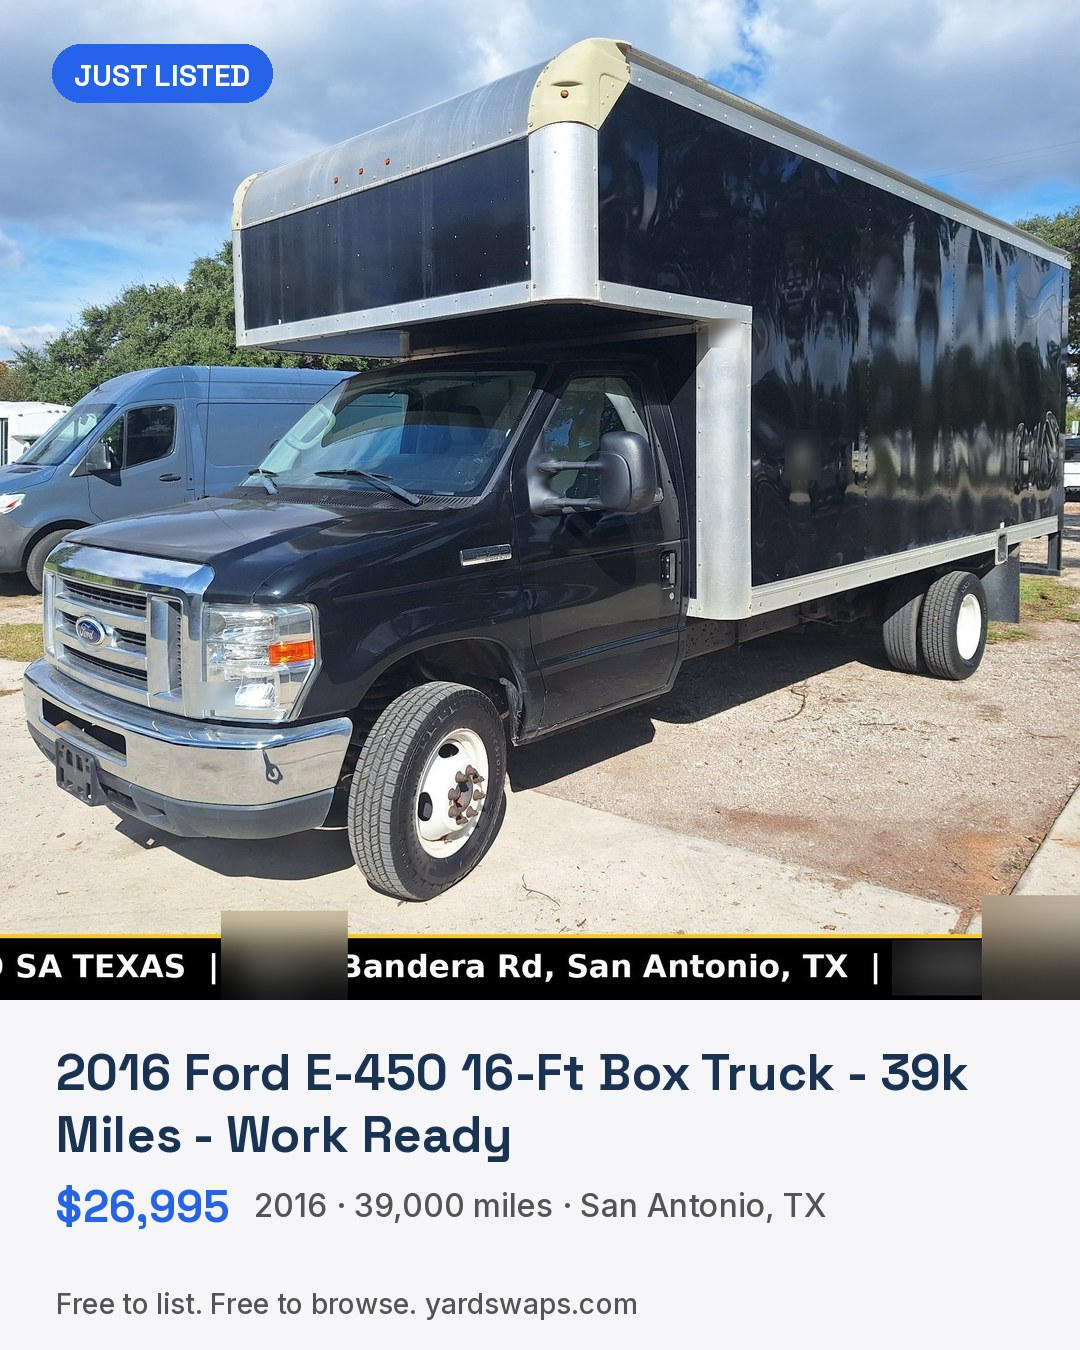
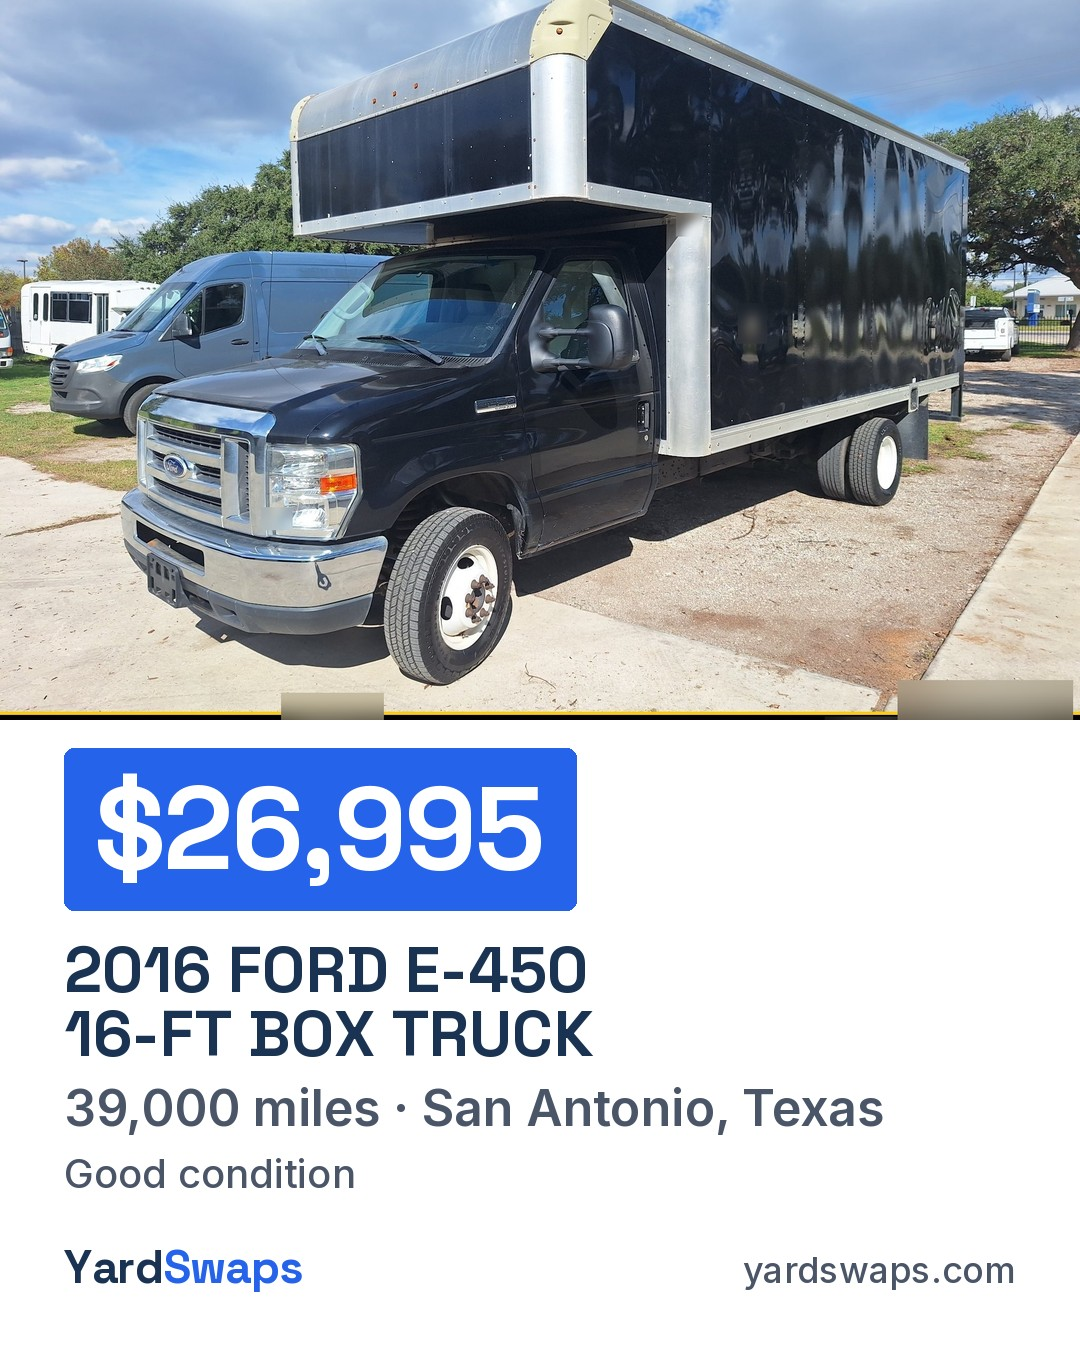
Listing Reels and cards: blur only phone numbers and plates
Uses listings/photo_privacy.py (same file as PR #139) at the three call sites in
the listing builder, so blur boxes stop landing on the machine itself.

Claude-Session: https://claude.ai/code/session_01LSYGzeUgq9fnmqx8BJzKeC

diff --git a/listings/photo_privacy.py b/listings/photo_privacy.py
@@ -1,0 +1,100 @@
+"""Blur only the text in a listing photo that can identify someone: phone numbers and licence plates.
+
+Nov 26 2026: the old rule (just_listed.blur_digit_text) blurred every OCR word with a digit in it. On real
+equipment photos tesseract reads trees, grilles, bumpers and mast chains as "4", "16" or "M4", so the Reels showed
+blur boxes on the machine itself (2005 Peterbilt 379: three; a Toyota forklift: six), which reads as tampering.
+A blur here is now kept for:
+  - a phone number: a text line in a phone shape (915-555-1234, (915) 555-1234, 9155551234, 555-1234);
+  - a plate, read with confidence 70+: one capital word of 6 to 8 letters and digits with 2+ of each
+    (ABC1234), or two neighbouring words of 2-3 capital letters and 3-4 digits (ABC 1234).
+Serial numbers, model numbers, hours and prices are not private and stay sharp. Faces are still handled by
+just_listed.faces_in (the whole photo is skipped).
+
+blur_private_text() keeps blur_digit_text()'s return shape: (image, boxes_blurred, ocr_ok).
+"""
+import re
+import shutil
+
+# 915-555-1234, (915) 555-1234, 915.555.1234, 9155551234, 555-1234: separators between the groups, so a
+# model number next to an hour reading ("137562 4500 hrs") is not taken for a phone number.
+PHONE_SHAPE = re.compile(r"\(\d{3}\)\s*\d{3}[\s.\-]+\d{4}|\b\d{3}[.\-]\d{3}[.\-]\d{4}\b|\b\d{3}\s\d{3}\s\d{4}\b"
+                         r"|\b\d{10}\b|\b\d{3}[.\-]\d{4}\b")
+PLATE_CONF = 70
+WORD_CONF = 60
+
+
+def _plate_like(word, conf):
+    """One upper-case word of 6 to 8 letters and digits with at least 2 of each (ABC1234, 7ABC123)."""
+    w = re.sub(r"[^A-Za-z0-9]", "", word)
+    digits = sum(c.isdigit() for c in w)
+    letters = sum(c.isalpha() for c in w)
+    return conf >= PLATE_CONF and 6 <= len(w) <= 8 and digits >= 2 and letters >= 2 and w == w.upper()
+
+
+def _plate_pair(w1, w2, conf):
+    """Two neighbouring words read as one plate: 2-3 capital letters and 3-4 digits (ABC 1234, 123 ABC).
+    "2016 JOHN", "DEERE 50G" and "4500 hrs" do not fit."""
+    a, b = (re.sub(r"[^A-Za-z0-9]", "", w) for w in (w1, w2))
+    letters_digits = lambda x, y: (x.isalpha() and x.isupper() and 2 <= len(x) <= 3
+                                   and y.isdigit() and 3 <= len(y) <= 4)
+    return conf >= PLATE_CONF and (letters_digits(a, b) or letters_digits(b, a))
+
+
+def private_text_boxes(img_bgr):
+    """[(x, y, w, h, why)] of phone numbers and plates in the photo, or None when OCR is not installed."""
+    if not shutil.which("tesseract"):
+        return None
+    import cv2
+    import pytesseract
+    rgb = cv2.cvtColor(img_bgr, cv2.COLOR_BGR2RGB)
+    d = pytesseract.image_to_data(rgb, output_type=pytesseract.Output.DICT, config="--psm 11")
+    lines = {}
+    boxes = []
+    for i, word in enumerate(d["text"]):
+        word = (word or "").strip()
+        try:
+            conf = float(d["conf"][i])
+        except ValueError:
+            conf = -1
+        if not word or conf < 0:
+            continue
+        box = (d["left"][i], d["top"][i], d["width"][i], d["height"][i])
+        lines.setdefault((d["block_num"][i], d["par_num"][i], d["line_num"][i]), []).append((word, conf, box))
+        if _plate_like(word, conf):
+            boxes.append((*box, f"plate {word}"))
+    for words in lines.values():
+        for (w1, c1, b1), (w2, c2, b2) in zip(words, words[1:]):
+            if _plate_pair(w1, w2, min(c1, c2)):
+                boxes += [(*b1, f"plate {w1} {w2}"), (*b2, f"plate {w1} {w2}")]
+        sure = [(w, c, b) for w, c, b in words if c >= WORD_CONF]
+        text = " ".join(w for w, c, b in sure)
+        if PHONE_SHAPE.search(text):
+            for w, c, b in sure:
+                if any(ch.isdigit() for ch in w):
+                    boxes.append((*b, f"phone {text}"))
+    return boxes
+
+
+def blur_private_text(img_bgr):
+    """Blur phone numbers and plates only. Returns (image, boxes_blurred, ocr_ok)."""
+    import cv2
+    boxes = private_text_boxes(img_bgr)
+    if boxes is None:
+        return img_bgr, 0, False
+    out = img_bgr.copy()
+    for x, y, w, h, _ in boxes:
+        pad = max(6, h // 2)
+        x0, y0 = max(0, x - pad), max(0, y - pad)
+        x1, y1 = min(out.shape[1], x + w + pad), min(out.shape[0], y + h + pad)
+        roi = out[y0:y1, x0:x1]
+        if roi.size:
+            k = max(15, (max(roi.shape[:2]) // 2) * 2 + 1)
+            out[y0:y1, x0:x1] = cv2.GaussianBlur(roi, (k, k), 0)
+    return out, len(boxes), True
+
+
+if __name__ == "__main__":  # python3 listings/photo_privacy.py photo.jpg ... : what would be blurred
+    import sys
+    import cv2
+    for path in sys.argv[1:]:
+        print(path, private_text_boxes(cv2.imread(path)))

diff --git a/listings/listing_reels.py b/listings/listing_reels.py
@@ -48,6 +48,7 @@ sys.path.insert(0, os.path.join(ROOT, "rotation"))
 sys.path.insert(0, os.path.join(ROOT, "brand", "endcard"))
 sys.path.insert(0, os.path.join(ROOT, "brand", "posts"))
 import endcard  # noqa: E402
+import photo_privacy  # noqa: E402  (phone numbers and plates only; listings/photo_privacy.py)
 import kit  # noqa: E402
 import just_listed as jl  # noqa: E402
 import rotation as rot  # noqa: E402
@@ -147,7 +148,7 @@ def render(l, photos_rgb, question, out_mp4, sheet_jpg):
 # ---------- photos ----------
 
 def clean_photos(cv2, np, l, card_photo=None, skip=()):
-    """(photos_rgb, urls) that pass the face check, with digit words blurred. `skip`: photo URLs a review
+    """(photos_rgb, urls) that pass the face check, with phone numbers and plates blurred. `skip`: photo URLs a review
     rejected, never used again for this listing."""
     out, urls = [], []
     if card_photo and os.path.exists(os.path.join(ROOT, card_photo)):
@@ -170,7 +171,7 @@ def clean_photos(cv2, np, l, card_photo=None, skip=()):
         if jl.faces_in(img):
             print(f"  {l['id']}: face in {u}, skipped")
             continue
-        img2, _, _ = jl.blur_digit_text(img)
+        img2, _, _ = photo_privacy.blur_private_text(img)
         out.append(cv2.cvtColor(img2, cv2.COLOR_BGR2RGB))
         urls.append(u)
     return out, urls
@@ -231,7 +232,7 @@ def same_photos(cv2, np, l, r, card_photo):
         img = cv2.imdecode(np.frombuffer(raw, np.uint8), cv2.IMREAD_COLOR)
         if img is None or jl.faces_in(img):
             return [], []
-        out.append(cv2.cvtColor(jl.blur_digit_text(img)[0], cv2.COLOR_BGR2RGB))
+        out.append(cv2.cvtColor(photo_privacy.blur_private_text(img)[0], cv2.COLOR_BGR2RGB))
     return out, urls
 
 

diff --git a/listings/just_listed.py b/listings/just_listed.py
@@ -737,7 +737,8 @@ def build_card(cv2, np, l, turn):
         if nf:
             print(f"  {lid}: {u} has {nf} face(s), trying the next photo")
             continue
-        img2, nblur, ocr = blur_digit_text(img)
+        import photo_privacy      # phone numbers and plates only, not every word with a digit
+        img2, nblur, ocr = photo_privacy.blur_private_text(img)
         chosen = (u, img2, nblur, ocr)
         break
     if not chosen:
